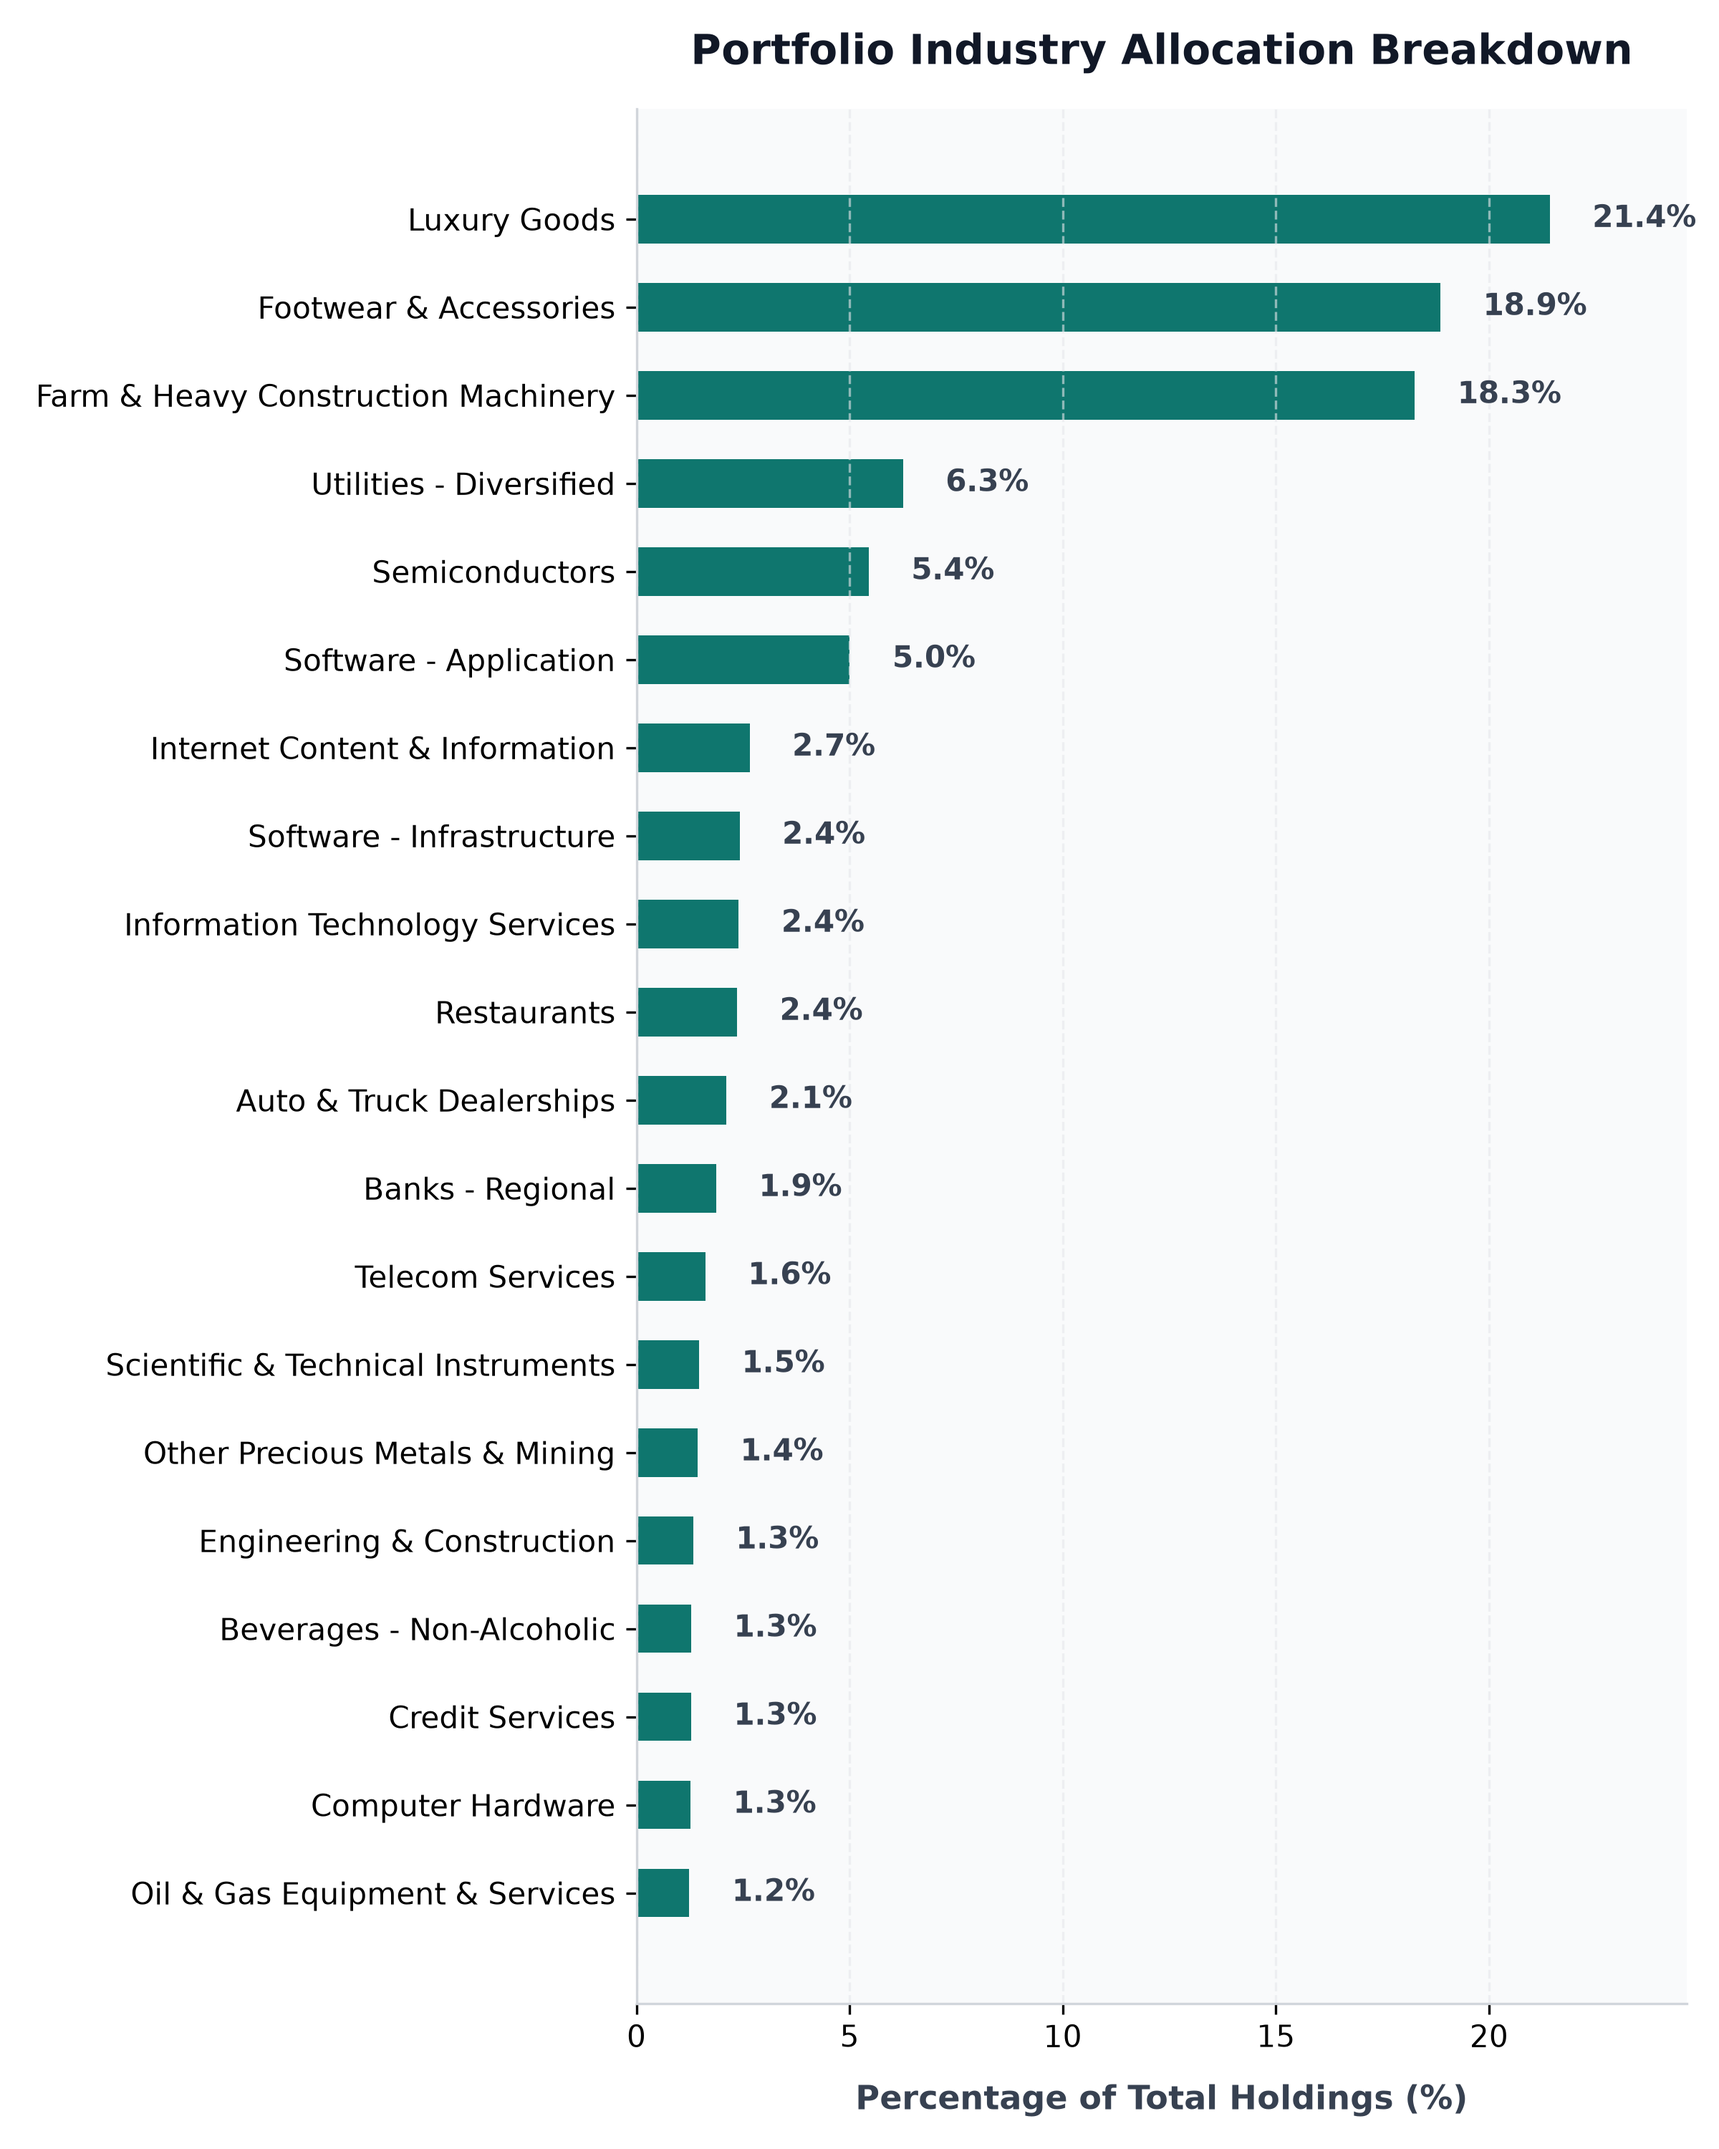
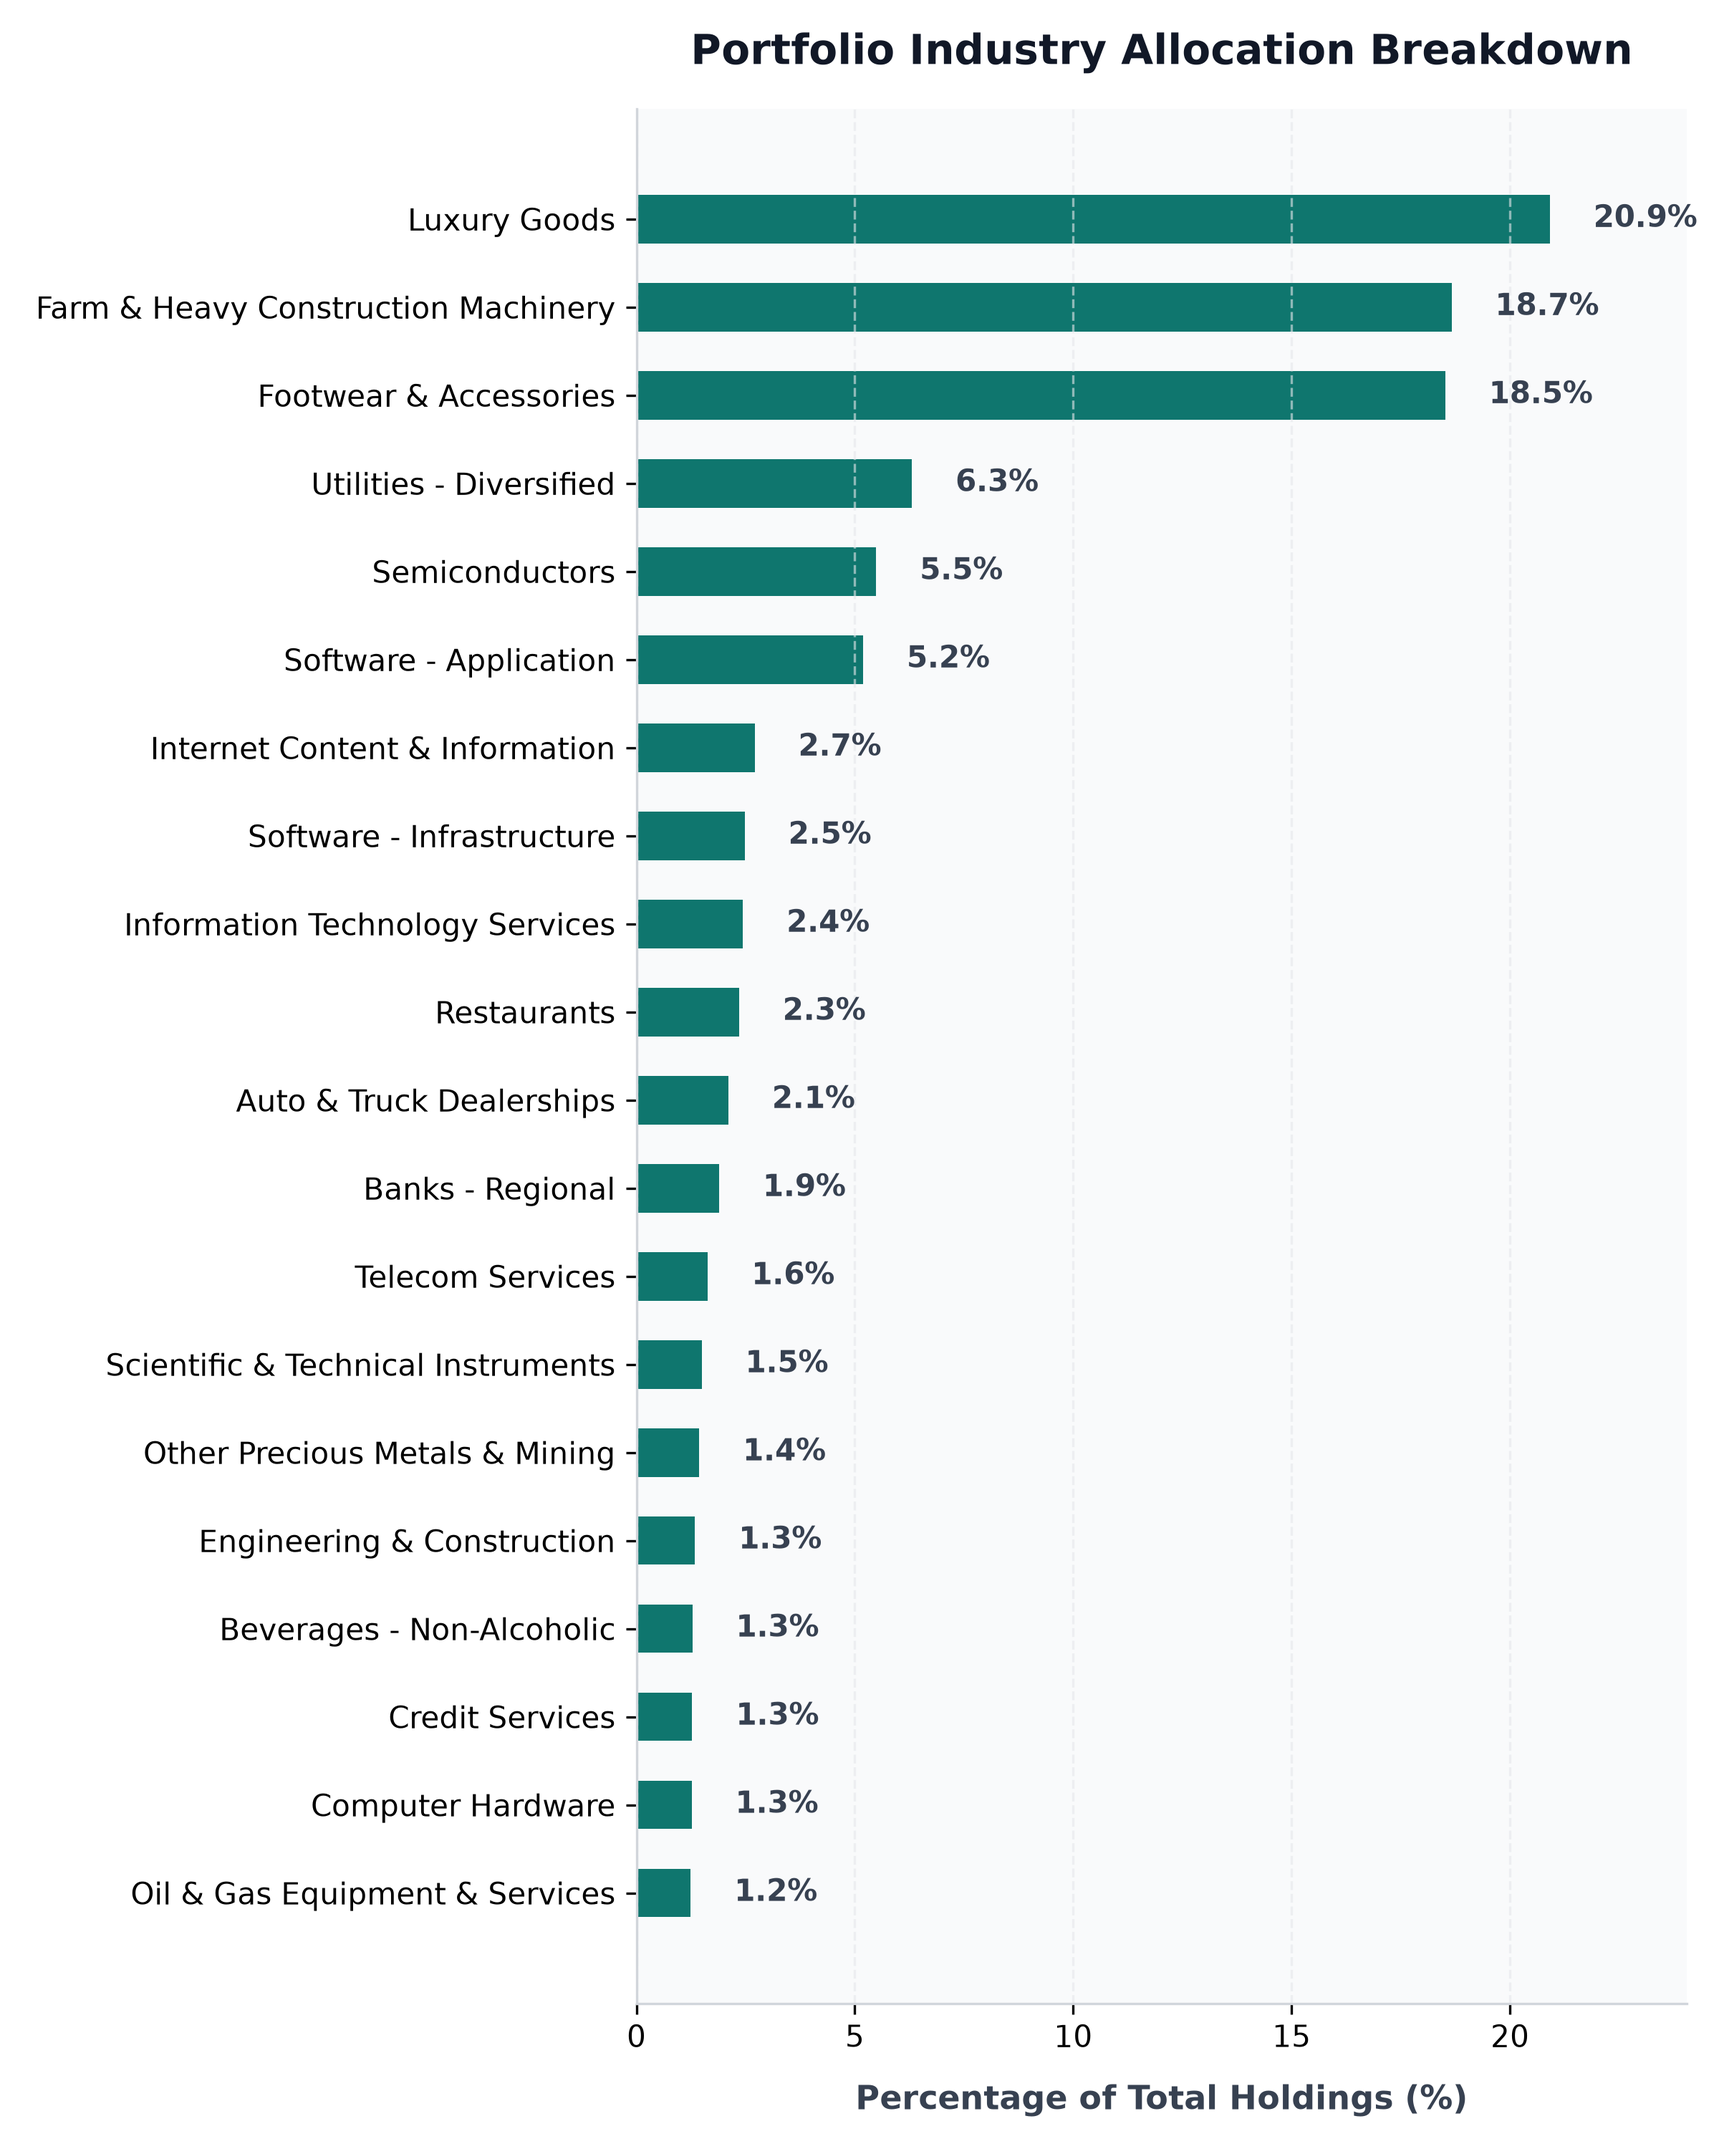
auto: daily portfolio status update - 2026-10-01 00:00:18

diff --git a/src/content/posts/portfolio-performance.md b/src/content/posts/portfolio-performance.md
@@ -1,6 +1,6 @@
 ---
 title: "BadOmen Algorithmic Portfolio Performance & PnL Report"
-pubDatetime: 2026-09-30T06:05:14.440208+08:00
+pubDatetime: 2026-10-01T00:00:18.285000+08:00
 description: "Live performance metrics, active holdings, and historic equity curve for the BadOmen automated paper trading portfolio."
 featured: true
 draft: false
@@ -16,11 +16,11 @@ Welcome to the live performance dashboard for **BadOmen**, our automated algorit
 ## 📊 Portfolio Summary
 | Performance Metric | Value | description |
 | :--- | :--- | :--- |
-| **Net Portfolio Equity** | **$95,524.71** | Total current liquidation value of cash and stock holdings |
-| **Total Unrealized P&L** | 🔴 **$-5,527.62** (-5.47%) | Total return of current open holdings |
+| **Net Portfolio Equity** | **$94,880.08** | Total current liquidation value of cash and stock holdings |
+| **Total Unrealized P&L** | 🔴 **$-6,170.24** (-6.11%) | Total return of current open holdings |
 | **Cash Balance** | $24,224.56 | Idle reserve currency available for limit orders |
-| **Buying Power** | $296,538.66 | Margin-backed buying power for entry allocations |
-| **Report Updated** | `2026-09-30 06:05:14 (SGT)` | Timestamp of daily execution and sync run |
+| **Buying Power** | $294,733.71 | Margin-backed buying power for entry allocations |
+| **Report Updated** | `2026-10-01 00:00:18 (SGT)` | Timestamp of daily execution and sync run |
 
 ## 📈 Net Equity Growth Curve
 The chart below illustrates the historical performance of the account starting from our baseline capital funding of $100,000.00.
@@ -35,35 +35,35 @@ The chart below illustrates the exposure of our currently held active positions 
 ## 💼 Current Position Holdings
 | Ticker | Industry | Shares Owned | Average Entry Cost | Current Price | Unrealized P&L | Return (%) |
 | :--- | :--- | :--- | :--- | :--- | :--- | :--- |
-| **AN** | Auto & Truck Dealerships | 5 | $188.51 | $156.80 | 🔴 $-158.54 | -16.82% |
-| **AVGO** | Semiconductors | 1 | $385.71 | $356.18 | 🔴 $-29.53 | -7.66% |
-| **BIRK** | Footwear & Accessories | 407 | $37.32 | $33.04 | 🔴 $-1,741.03 | -11.46% |
-| **BLBD** | Farm & Heavy Construction Machinery | 231 | $65.52 | $56.36 | 🔴 $-2,115.03 | -13.98% |
-| **BVN** | Other Precious Metals & Mining | 32 | $31.88 | $31.99 | 🟢 +$3.68 | +0.36% |
-| **CELH** | Beverages - Non-Alcoholic | 33 | $29.71 | $27.75 | 🔴 $-64.77 | -6.61% |
-| **CPRI** | Luxury Goods | 1042 | $14.55 | $14.66 | 🟢 +$112.74 | +0.74% |
-| **DUOL** | Software - Application | 14 | $131.04 | $142.09 | 🟢 +$154.64 | +8.43% |
-| **FIS** | Information Technology Services | 23 | $41.79 | $33.44 | 🔴 $-192.05 | -19.98% |
-| **GDDY** | Software - Infrastructure | 6 | $76.21 | $93.99 | 🟢 +$106.68 | +23.33% |
-| **GDS** | Information Technology Services | 30 | $32.77 | $31.39 | 🔴 $-41.40 | -4.21% |
-| **GGAL** | Banks - Regional | 17 | $56.04 | $37.02 | 🔴 $-323.33 | -33.94% |
-| **GOOGL** | Internet Content & Information | 3 | $319.44 | $341.50 | 🟢 +$66.18 | +6.91% |
-| **GPI** | Auto & Truck Dealerships | 3 | $316.15 | $240.93 | 🔴 $-225.66 | -23.79% |
-| **HUBS** | Software - Application | 8 | $221.18 | $197.36 | 🔴 $-190.55 | -10.77% |
-| **ITRI** | Scientific & Technical Instruments | 12 | $81.80 | $87.40 | 🟢 +$67.20 | +6.85% |
-| **KBR** | Engineering & Construction | 27 | $36.23 | $35.13 | 🔴 $-29.78 | -3.04% |
-| **NESR** | Oil & Gas Equipment & Services | 34 | $28.74 | $26.01 | 🔴 $-92.82 | -9.50% |
-| **NU** | Banks - Regional | 57 | $11.60 | $12.38 | 🟢 +$44.54 | +6.74% |
-| **ON** | Semiconductors | 10 | $90.45 | $75.85 | 🔴 $-146.05 | -16.15% |
-| **ORCL** | Software - Infrastructure | 5 | $181.95 | $138.72 | 🔴 $-216.17 | -23.76% |
-| **PATH** | Software - Infrastructure | 38 | $10.25 | $12.30 | 🟢 +$77.90 | +20.00% |
-| **PYPL** | Credit Services | 17 | $56.05 | $53.80 | 🔴 $-38.25 | -4.01% |
-| **QCOM** | Semiconductors | 15 | $193.68 | $184.60 | 🔴 $-136.27 | -4.69% |
-| **SMCI** | Computer Hardware | 22 | $29.25 | $41.14 | 🟢 +$261.58 | +40.65% |
-| **SRE** | Utilities - Diversified | 57 | $84.75 | $78.22 | 🔴 $-372.35 | -7.71% |
-| **T** | Telecom Services | 47 | $20.85 | $24.54 | 🟢 +$173.20 | +17.68% |
-| **WEN** | Restaurants | 257 | $8.02 | $6.55 | 🔴 $-378.75 | -18.37% |
-| **ZG** | Internet Content & Information | 31 | $31.35 | $28.01 | 🔴 $-103.64 | -10.66% |
+| **AN** | Auto & Truck Dealerships | 5 | $188.51 | $153.77 | 🔴 $-173.69 | -18.43% |
+| **AVGO** | Semiconductors | 1 | $385.71 | $353.48 | 🔴 $-32.23 | -8.36% |
+| **BIRK** | Footwear & Accessories | 407 | $37.32 | $32.15 | 🔴 $-2,103.26 | -13.85% |
+| **BLBD** | Farm & Heavy Construction Machinery | 231 | $65.52 | $57.08 | 🔴 $-1,948.71 | -12.88% |
+| **BVN** | Other Precious Metals & Mining | 32 | $31.88 | $31.70 | 🔴 $-5.76 | -0.56% |
+| **CELH** | Beverages - Non-Alcoholic | 33 | $29.71 | $27.36 | 🔴 $-77.47 | -7.90% |
+| **CPRI** | Luxury Goods | 1042 | $14.55 | $14.18 | 🔴 $-387.42 | -2.56% |
+| **DUOL** | Software - Application | 14 | $131.04 | $143.61 | 🟢 +$175.92 | +9.59% |
+| **FIS** | Information Technology Services | 23 | $41.79 | $33.18 | 🔴 $-198.03 | -20.60% |
+| **GDDY** | Software - Infrastructure | 6 | $76.21 | $95.44 | 🟢 +$115.41 | +25.24% |
+| **GDS** | Information Technology Services | 30 | $32.77 | $31.96 | 🔴 $-24.30 | -2.47% |
+| **GGAL** | Banks - Regional | 17 | $56.04 | $37.29 | 🔴 $-318.74 | -33.46% |
+| **GOOGL** | Internet Content & Information | 3 | $319.44 | $351.18 | 🟢 +$95.20 | +9.93% |
+| **GPI** | Auto & Truck Dealerships | 3 | $316.15 | $239.19 | 🔴 $-230.88 | -24.34% |
+| **HUBS** | Software - Application | 8 | $221.18 | $206.91 | 🔴 $-114.17 | -6.45% |
+| **ITRI** | Scientific & Technical Instruments | 12 | $81.80 | $87.85 | 🟢 +$72.57 | +7.39% |
+| **KBR** | Engineering & Construction | 27 | $36.23 | $35.08 | 🔴 $-31.27 | -3.20% |
+| **NESR** | Oil & Gas Equipment & Services | 34 | $28.74 | $25.78 | 🔴 $-100.64 | -10.30% |
+| **NU** | Banks - Regional | 57 | $11.60 | $12.33 | 🟢 +$41.71 | +6.31% |
+| **ON** | Semiconductors | 10 | $90.45 | $75.75 | 🔴 $-147.05 | -16.26% |
+| **ORCL** | Software - Infrastructure | 5 | $181.95 | $137.40 | 🔴 $-222.75 | -24.48% |
+| **PATH** | Software - Infrastructure | 38 | $10.25 | $12.91 | 🟢 +$101.27 | +26.00% |
+| **PYPL** | Credit Services | 17 | $56.05 | $53.10 | 🔴 $-50.15 | -5.26% |
+| **QCOM** | Semiconductors | 15 | $193.68 | $184.45 | 🔴 $-138.52 | -4.77% |
+| **SMCI** | Computer Hardware | 22 | $29.25 | $40.58 | 🟢 +$249.15 | +38.72% |
+| **SRE** | Utilities - Diversified | 57 | $84.75 | $78.17 | 🔴 $-375.48 | -7.77% |
+| **T** | Telecom Services | 47 | $20.85 | $24.59 | 🟢 +$175.78 | +17.94% |
+| **WEN** | Restaurants | 257 | $8.02 | $6.46 | 🔴 $-403.16 | -19.55% |
+| **ZG** | Internet Content & Information | 31 | $31.35 | $27.69 | 🔴 $-113.56 | -11.68% |
 
 ## 🔴 Recent Realized Trades
 | Ticker | Shares Sold | Entry Price | Exit Price | Strategy Trigger | Realized Return | Exit Date |
